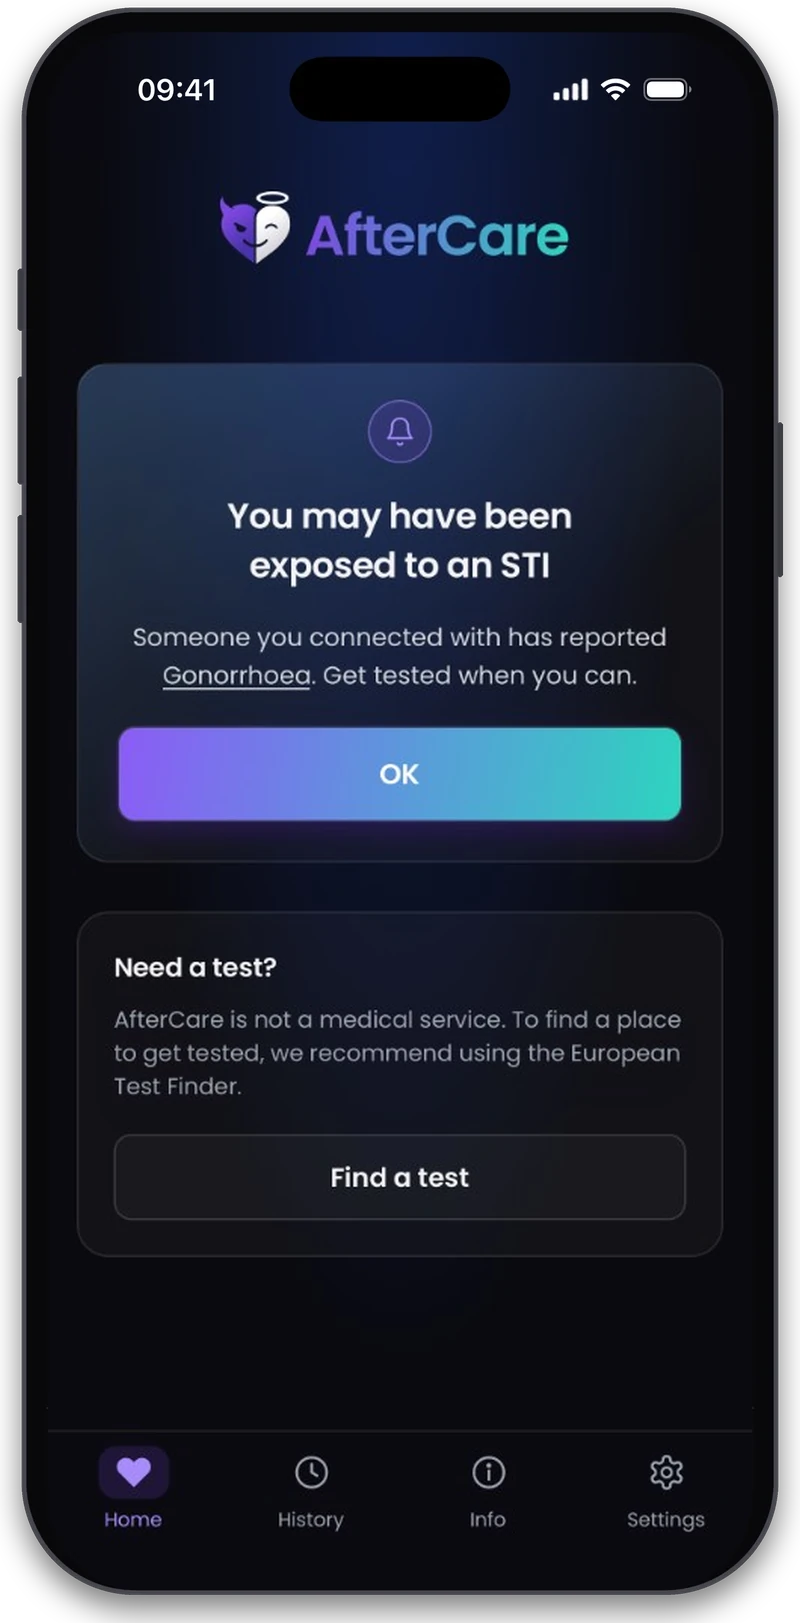
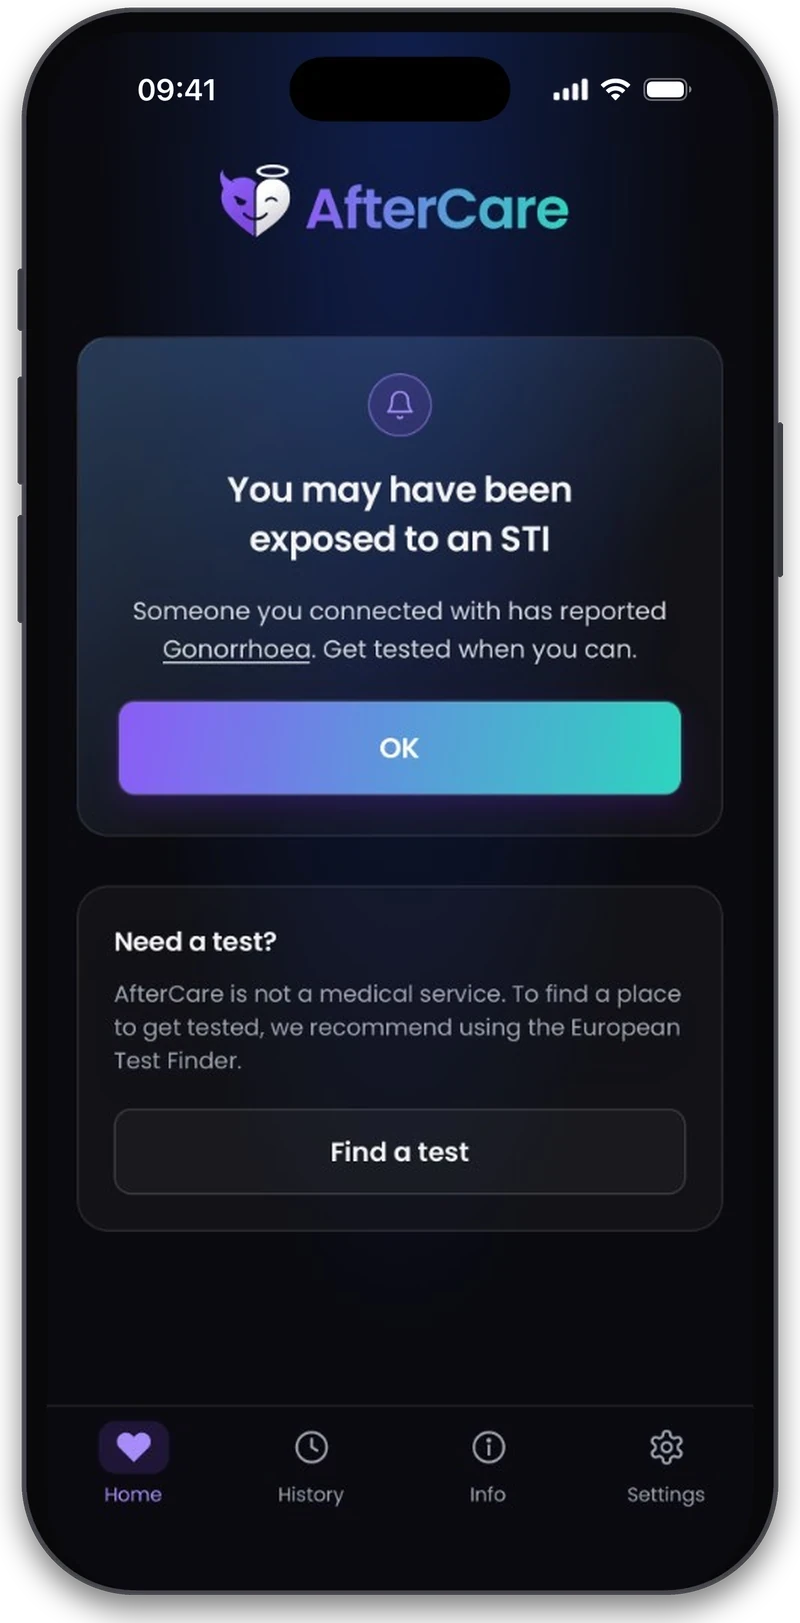
Update and enlarge the mockup

diff --git a/index.html b/index.html
@@ -529,8 +529,8 @@
         display: block;
         width: auto;
         height: auto;
-        max-width: min(300px, 68vw);
-        max-height: 48vh;
+        max-width: min(330px, 78vw);
+        max-height: 58vh;
         animation: float 7s ease-in-out infinite;
       }
       @media (min-width: 1024px) {
